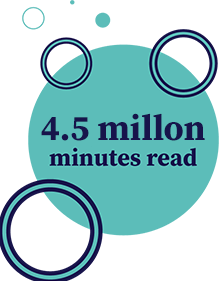
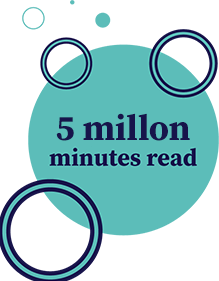
updated content

Changed region(s): [[0.1918, 0.3986, 0.9315, 0.5125]]

diff --git a/summer-reading/index.html b/summer-reading/index.html
@@ -91,7 +91,6 @@ e.async=true;var t=document.getElementsByTagName("script")[0];t.parentNode.inser
 <style>
 .banner-row {
     background: #329b8d;
-    padding-bottom: 45px;
 }
 .banner-row-image {
     background: linear-gradient(#cf372e 0%, #fed973 20%, #eb7545 50%, #ef7175 60%, #cf372e 100%);
@@ -195,7 +194,8 @@ h5.source {
 .button-group {
     font-size: 30px;
     text-transform: uppercase;
-    padding-top: 40px;
+    padding-top: 30px;
+    padding-bottom: 30px;
 }
 .one a, .two a, .three a {
     color: #17144b;
@@ -394,13 +394,17 @@ opacity:1;
     width: 400px;
     position: absolute;
     right: 0;
-    bottom: 50px;
+    bottom: 70px;
 }
 .fish-row {
     padding-bottom: 75px;
 }
-.banner-row-image {
-    border-bottom: 45px solid #329B8D;
+}
+
+@media (min-width: 768px) {
+.button-group {
+    padding-top: 30px;
+    padding-bottom: 30px;
 }
 }
 </style>
@@ -590,7 +594,6 @@ height="0" width="0" style="display:none;visibility:hidden"></iframe>
     <div class="banner-row-image"><img class="hidden-sm hidden-md hidden-lg img-responsive center-block" src="summer-reading-small.png" alt="Summer Reading"><img class="hidden-xs img-responsive center-block" src="summer-reading.png" alt="Summer Reading"></div>
     <div class="static-container container">
       <ul class="source list-inline text-center button-group">
-        <li class="one jello"><a href="registration/">Registration</a></li>
         <li class="three jello"><a href="scrapbook/">Scrapbook</a></li>
         <br>
         <li class="jello"><a href="jokes.pdf" target="_blank" class="white smaller">Splishy-Splashy Jokes</a></li>
@@ -598,29 +601,33 @@ height="0" width="0" style="display:none;visibility:hidden"></iframe>
     </div>
   </div>
   <div class="row orange-row">
-    <div class="container">
-      <div class="text-center margin-lg-200 margin-md-100">
-        <div class="pull-right hidden-xs"><img class="img-responsive" src="surfboards.png" alt="Surfboards"></div>
-        <h2 class="source">Welcome to Splash Into Summer!</h2>
+    <div class="container text-center">
+      <div class="col-sm-6 padding-bottom-15">
+        <h4 class="source">Splash Into Summer Finishing Prizes</h4>
         <div class="text-left-sm large-text">
-          <div>You're invited to have a great summer: reading, soaking up the sun, and keeping cool while enjoying tons of fun summer activities.</div>
-          <div class="margin-top-15">
-            <h4 class="source text-center">Celebrate Splash Into Summer <a class="pointer text-underline" data-target="#sweetmodal" data-toggle="modal" type="button">with a sweet treat!</a></h4>
-          </div>
-          <div class="margin-top-15 margin-bottom-30"> We've suggested 1000 minutes of reading as a worthy goal, but if this challenge is not right for you or your family, feel free to create your own challenge! You can increase or decrease the number of minutes or set a goal for the number of books or pages you want to read. You can also do the supplemental activities we suggest on the reading log. We aren't set on you reading 1000 minutes, we just want you to read and have fun while doing it! </div>
+          <div>We hope you had a great summer of reading! Kids finishing prizes can be picked up through August 9. Visit your preferred DCL location during current operating hours to pick out a book to keep, while supplies last. </div>
+          <div class="margin-top-15">Finishing prize drawing winners of all ages will be announced Tuesday, August 4, and notified via email. Check your email to see if you’ve won a stand-up paddleboard, 2021 season pass to Elitch Gardens, or 2021 season pass to Pirates Cove. </div>
+        </div>
+      </div>
+      <div class="col-sm-6 padding-bottom-15">
+        <h4 class="source">School Contest Award Recipients</h4>
+        <div class="text-left-sm large-text">These are the schools with the most summer reading sign-ups. Each school will be awarded $500 this month courtesy of the Douglas County Libraries Foundation.
+          <ul class="list-unstyled padding-top-20">
+            <li>Elementary: Copper Mesa Elementary School</li>
+			  <li>Middle: Ranch View Middle School</li>
+			   <li>High: Castle View High School</li>
+			   <li>Charter: Leman Classical Academy</li>
+          </ul>
         </div>
       </div>
     </div>
   </div>
   <div class="row fish-row">
     <div class="container-md">
-      <h2 class="blue source text-center padding-top-15 padding-bottom-30">Help us meet our community goal of 8 million minutes read!</h2>
+      <h2 class="blue source text-center padding-top-15 padding-bottom-30">Community Goal&mdash;5 Million Minutes Read!</h2>
       <div class="fish-wrapper margin-lg-50">
         <div class="large-text text-box boxes hidden-xs hidden-sm">
-          <div>Watch our school of fish grow and help us meet our goal. If we meet our goal, the <a class="text-underline" href="../foundation/">Douglas County Libraries Foundation</a> will donate $1000 to the COVID-19 Recovery Fund through the Douglas County Community Foundation (DCCF).</div>
-          <div class="margin-top-10">Already registered?
-            <h3 class="blue source no-margin"><a class="text-underline" href="https://wandooreader.com/douglascountylibraries/splash-into-summer" target="_blank">Log Your Minutes</a></h3>
-          </div>
+          <div>Congratulations, summer readers! We finished with a combined total of 5 million minutes read. To celebrate that milestone, the Douglas County Libraries Foundation has donated $1,000 to the COVID-19 Recovery Fund through the Douglas County Community Foundation. Thank you for contributing your minutes to this worthy cause. </div>
         </div>
         <div class="meter-box boxes"><img class="img-responsive image-center" src="minutes.png" alt="Goal Meter"></div>
         <div class="hidden-md hidden-sm hidden-xs fish-box boxes swimming"><img class="image-center" src="fewer-fish.png" alt="Fish"></div>
